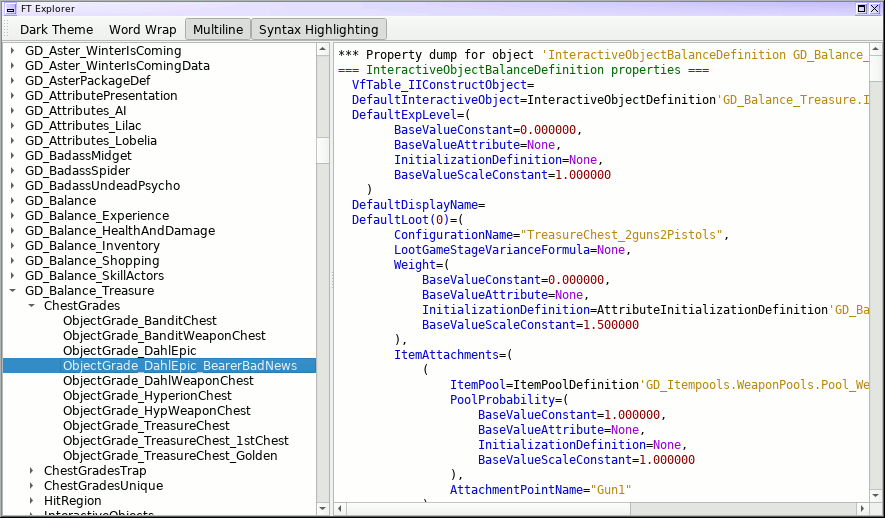
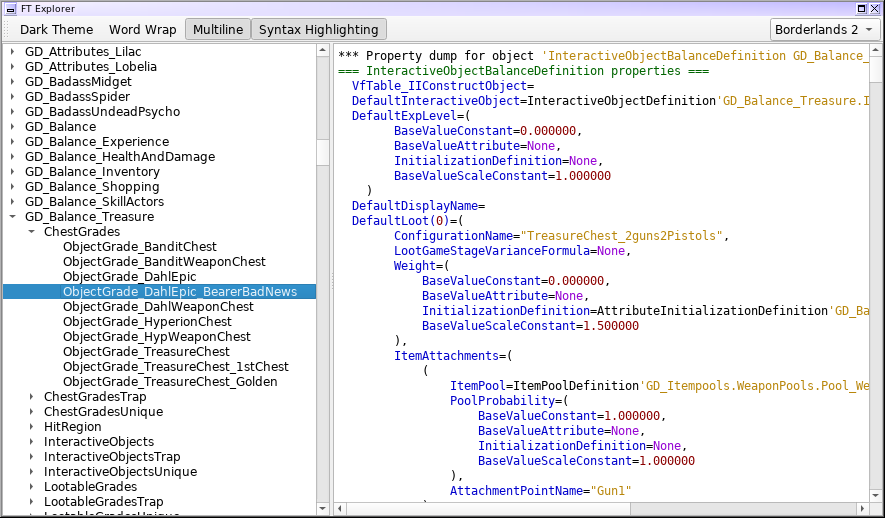
Toggle between BL2/TPS.  Very nearly feature-complete for what I wanted to do with this

diff --git a/ftexplorer/gui.py b/ftexplorer/gui.py
@@ -52,6 +52,15 @@ class MainTree(QtWidgets.QTreeView):
         self.model = QtGui.QStandardItemModel()
         self.setModel(self.model)
 
+        self.load_data(data)
+
+    def load_data(self, data):
+        """
+        Loads the given dataset
+        """
+
+        self.model.clear()
+        self.data = data
         for item in self.data:
             self.add_to_tree(item, self.model)
 
@@ -112,8 +121,7 @@ class DataDisplay(QtWidgets.QTextEdit):
     def __init__(self, parent):
         super().__init__(parent)
         self.parent = parent
-        self.node = None
-        self.setText('(nothing selected)')
+        self.initial_display()
         self.setReadOnly(True)
 
         # Use a Monospaced font
@@ -123,6 +131,13 @@ class DataDisplay(QtWidgets.QTextEdit):
 
         # Default to not word-wrapping
         self.setWordWrapMode(QtGui.QTextOption.NoWrap)
+
+    def initial_display(self):
+        """
+        Clears out output
+        """
+        self.node = None
+        self.setText('(nothing selected)')
 
     def setText(self, text, clear_node=True):
         """
@@ -270,12 +285,34 @@ class DataDisplay(QtWidgets.QTextEdit):
             # Display
             self.setHtml('<br>'.join(output), clear_node=False)
 
+class GameSelect(QtWidgets.QComboBox):
+    """
+    ComboBox to switch between BL2 and TPS data
+    """
+
+    def __init__(self, parent, maingui, data_bl2, data_tps):
+        super().__init__(parent)
+        self.maingui = maingui
+        self.data_bl2 = data_bl2
+        self.data_tps = data_tps
+        self.addItem('Borderlands 2', data_bl2)
+        self.addItem('Pre-Sequel', data_tps)
+        self.setCurrentIndex(0)
+        self.currentIndexChanged.connect(self.index_changed)
+        self.setSizeAdjustPolicy(self.AdjustToContents)
+
+    def index_changed(self, index):
+        """
+        User selected a new game
+        """
+        self.maingui.switch_game(self.currentData())
+
 class MainToolBar(QtWidgets.QToolBar):
     """
     Toolbar to hold a few toggles for us
     """
 
-    def __init__(self, parent):
+    def __init__(self, parent, data_bl2, data_tps):
 
         super().__init__(parent)
 
@@ -292,6 +329,16 @@ class MainToolBar(QtWidgets.QToolBar):
         self.action_syntax = self.addAction('Syntax Highlighting', parent.toggle_syntax)
         self.action_syntax.setCheckable(True)
         self.action_syntax.setChecked(True)
+
+        # Spacer, after which everything else will be right-aligned
+        spacer_label = QtWidgets.QLabel()
+        spacer_label.setSizePolicy(QtWidgets.QSizePolicy.Expanding, QtWidgets.QSizePolicy.Expanding)
+        self.addWidget(spacer_label)
+
+        # Game selection
+        self.game_select = GameSelect(self, parent, data_bl2, data_tps)
+        self.game_select.setSizePolicy(QtWidgets.QSizePolicy.Minimum, QtWidgets.QSizePolicy.Preferred)
+        self.addWidget(self.game_select)
 
 class GUI(QtWidgets.QMainWindow):
     """
@@ -312,7 +359,7 @@ class GUI(QtWidgets.QMainWindow):
         self.setWindowTitle('FT Explorer')
 
         # Load our toolbar
-        self.toolbar = MainToolBar(self)
+        self.toolbar = MainToolBar(self, data_bl2, data_tps)
         self.addToolBar(self.toolbar)
 
         # Set up a QSplitter
@@ -370,6 +417,14 @@ class GUI(QtWidgets.QMainWindow):
         else:
             self.app.setStyleSheet('')
         self.display.updateText()
+
+    def switch_game(self, data):
+        """
+        Switches to the game data contained in `data`.  Called
+        from our GameSelect combo box
+        """
+        self.treeview.load_data(data)
+        self.display.initial_display()
 
 class Application(QtWidgets.QApplication):
     """

diff --git a/README.md b/README.md
@@ -55,7 +55,6 @@ convinced to spend some more effort on it.
 
 Some things which are at least somewhat likely to happen:
 
-* Selecting between B2 and TPS data
 * Remember settings between runs (which toggles are active, etc)
 
 Some things which are less likely to happen:
